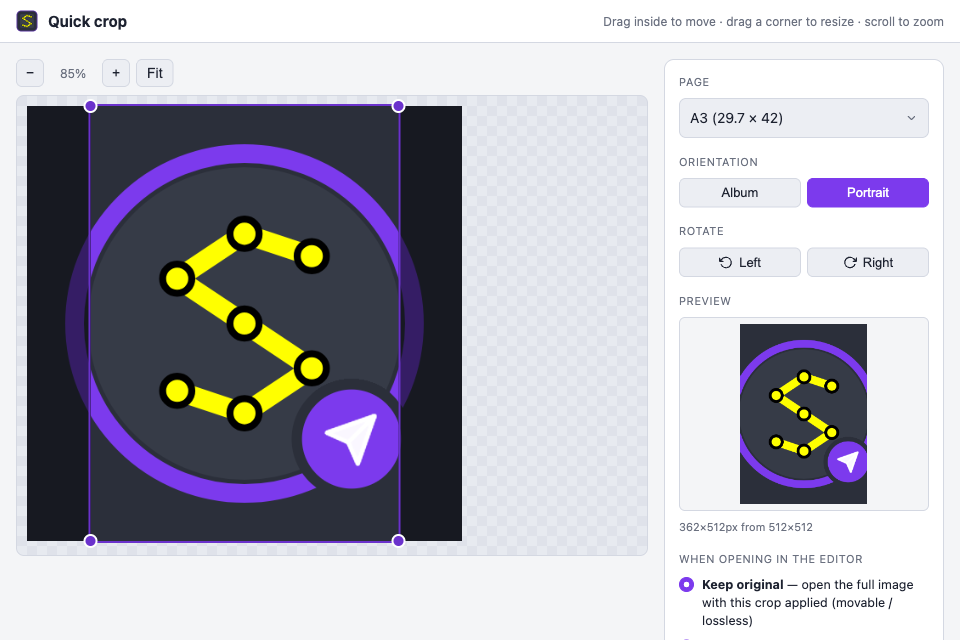
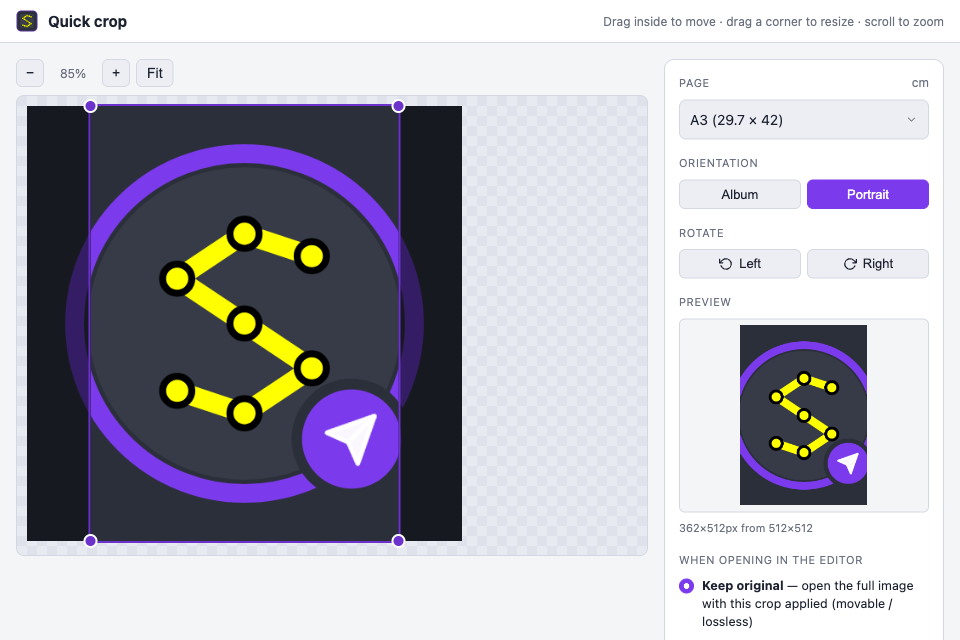
State the crop page's unit once on its Page label, not per option

diff --git a/browser-extension/src/crop/crop.css b/browser-extension/src/crop/crop.css
@@ -49,6 +49,9 @@ main { display: flex; gap: 16px; padding: 16px; align-items: flex-start; }
   border-radius: 10px; padding: 14px; display: flex; flex-direction: column; gap: 16px; }
 .group { display: flex; flex-direction: column; gap: 8px; }
 .lbl { font-size: 11px; text-transform: uppercase; letter-spacing: .05em; color: var(--muted); }
+/* A label that also carries its group's unit: the name left, the unit right, on one line. */
+.lbl-row { display: flex; align-items: baseline; justify-content: space-between; gap: 8px; }
+.lbl-row .unit { text-transform: none; letter-spacing: 0; font-size: 12px; }
 
 .seg { display: flex; gap: 6px; }
 .seg button { flex: 1; background: var(--panel-2); color: var(--text); border: 1px solid var(--line);
@@ -67,7 +70,6 @@ main { display: flex; gap: 16px; padding: 16px; align-items: flex-start; }
 .num { width: 84px; background: var(--panel-2); color: var(--text); border: 1px solid var(--line);
   border-radius: 6px; padding: 6px 8px; font-size: 13px; }
 .custom-dims .times { color: var(--muted); }
-.custom-dims .unit { color: var(--muted); font-size: 12px; }
 
 .preview-frame { background: var(--bg); border: 1px solid var(--line); border-radius: 6px;
   display: flex; align-items: center; justify-content: center; padding: 6px; min-height: 80px; }

diff --git a/browser-extension/src/crop/crop.html b/browser-extension/src/crop/crop.html
@@ -68,14 +68,20 @@
 
     <aside class="panel">
       <div class="group">
-        <label class="lbl">Page</label>
+        <!-- The unit is stated ONCE for the whole group — the named formats in the select and
+             the Custom W/H under it are both in cm — rather than a word per option. The
+             browser and desktop say it once too, in the unit control beside their page
+             select; this page has no such control, so its own label carries it. -->
+        <div class="lbl lbl-row">
+          <label for="page-select">Page</label>
+          <span class="unit">cm</span>
+        </div>
         <!-- Options are generated from the shared ISO format table (see crop.js). -->
         <select id="page-select" class="page-select"></select>
         <div id="custom-dims" class="custom-dims" hidden>
           <input id="custom-w" class="num" type="number" min="0.1" step="0.1" value="21">
           <span class="times">×</span>
           <input id="custom-h" class="num" type="number" min="0.1" step="0.1" value="29.7">
-          <span class="unit">cm</span>
         </div>
       </div>
 
